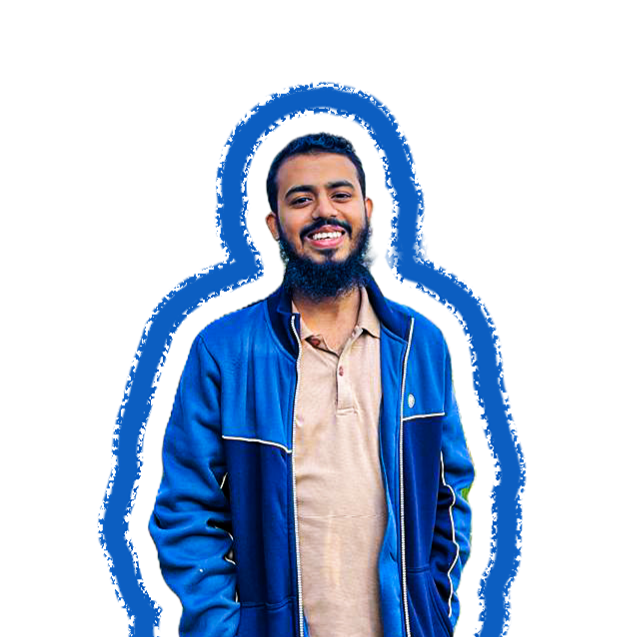
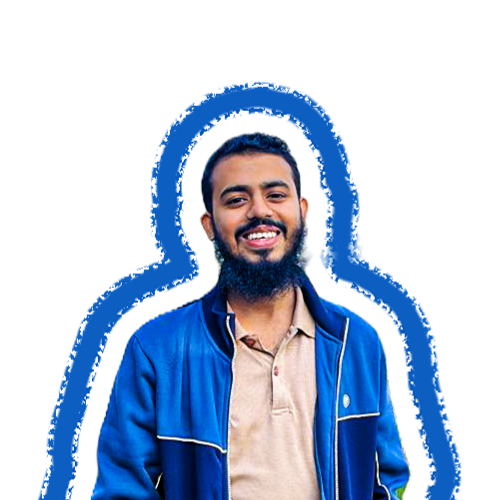
bigger image

diff --git a/index.html b/index.html
@@ -119,7 +119,7 @@
                 <a href="#contact" class="block w-full sm:inline-block bg-white text-blue-600 font-bold py-3 px-8 rounded-lg hover:bg-blue-50 transition text-center">Get Started Today</a>
             </div>
             <div class="md:w-1/2 flex flex-col items-center">
-                <img src="image/my image 02.PNG" alt="Profile" class="w-48 h-48 md:w-96 md:h-96 rounded-full border-8 border-white shadow-2xl object-cover">
+                <img src="image/my image 02.PNG" alt="Profile" class="w-64 h-64 md:w-[36rem] md:h-[36rem] rounded-full border-8 border-white shadow-2xl object-cover">
                 <div class="mt-6 text-center">
                     <h3 class="text-base md:text-xl font-bold text-white mb-1">Abdullah Al Main</h3>
                     <p class="text-xs md:text-sm text-blue-100 mb-1">MSc in Applied Mathematics</p>
